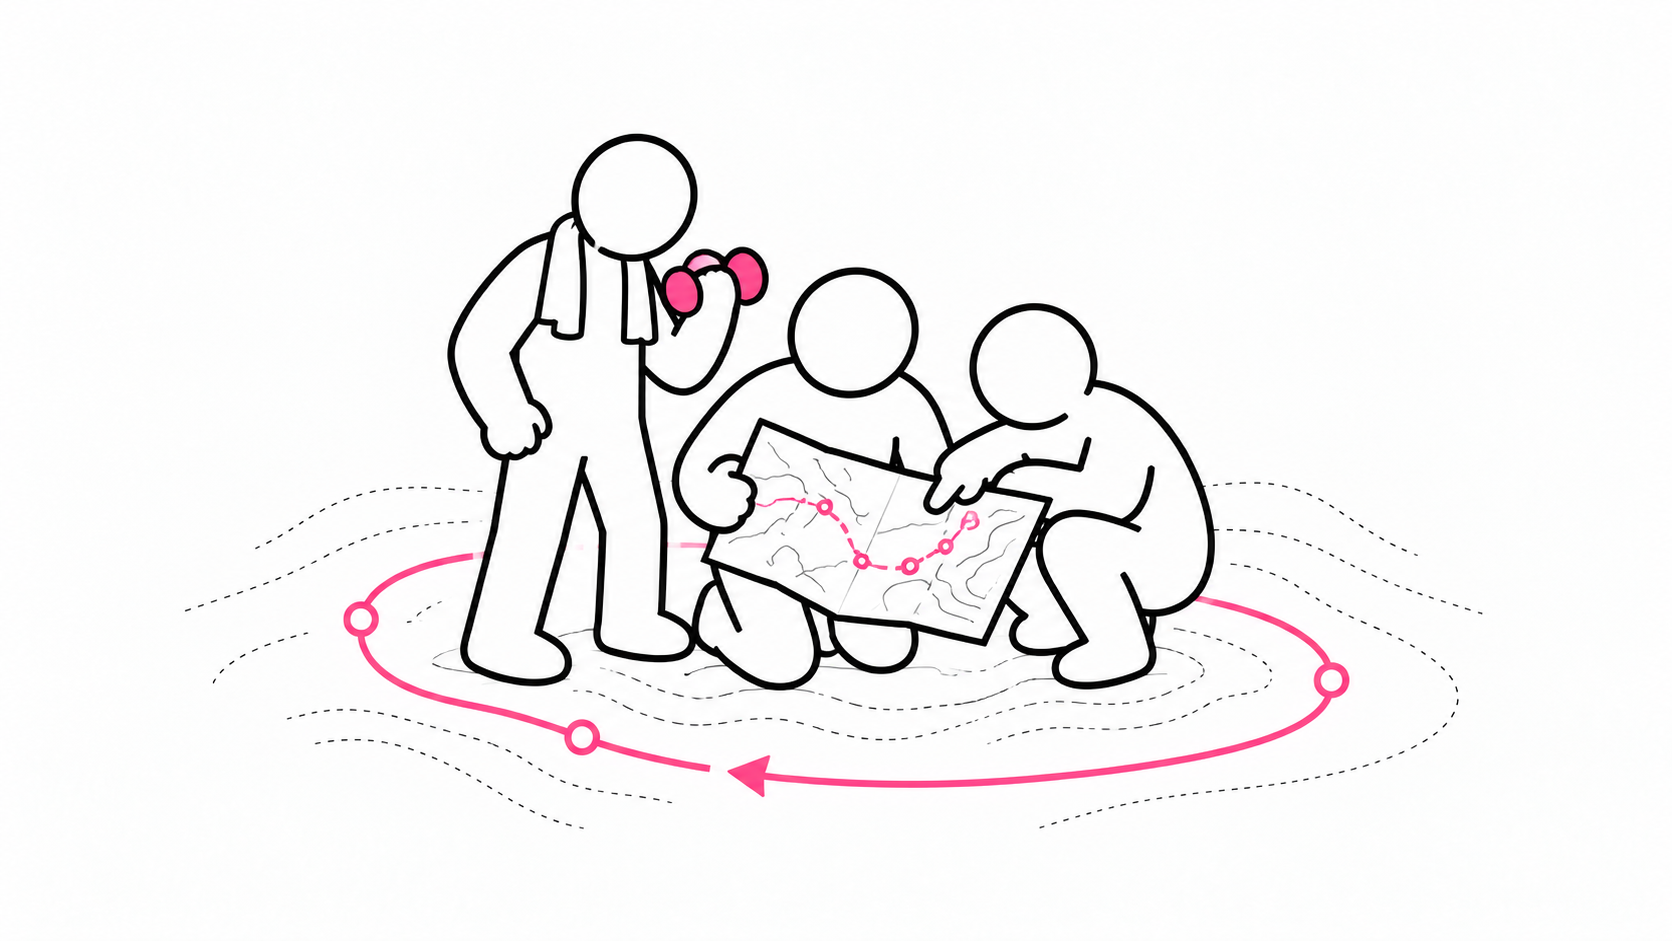
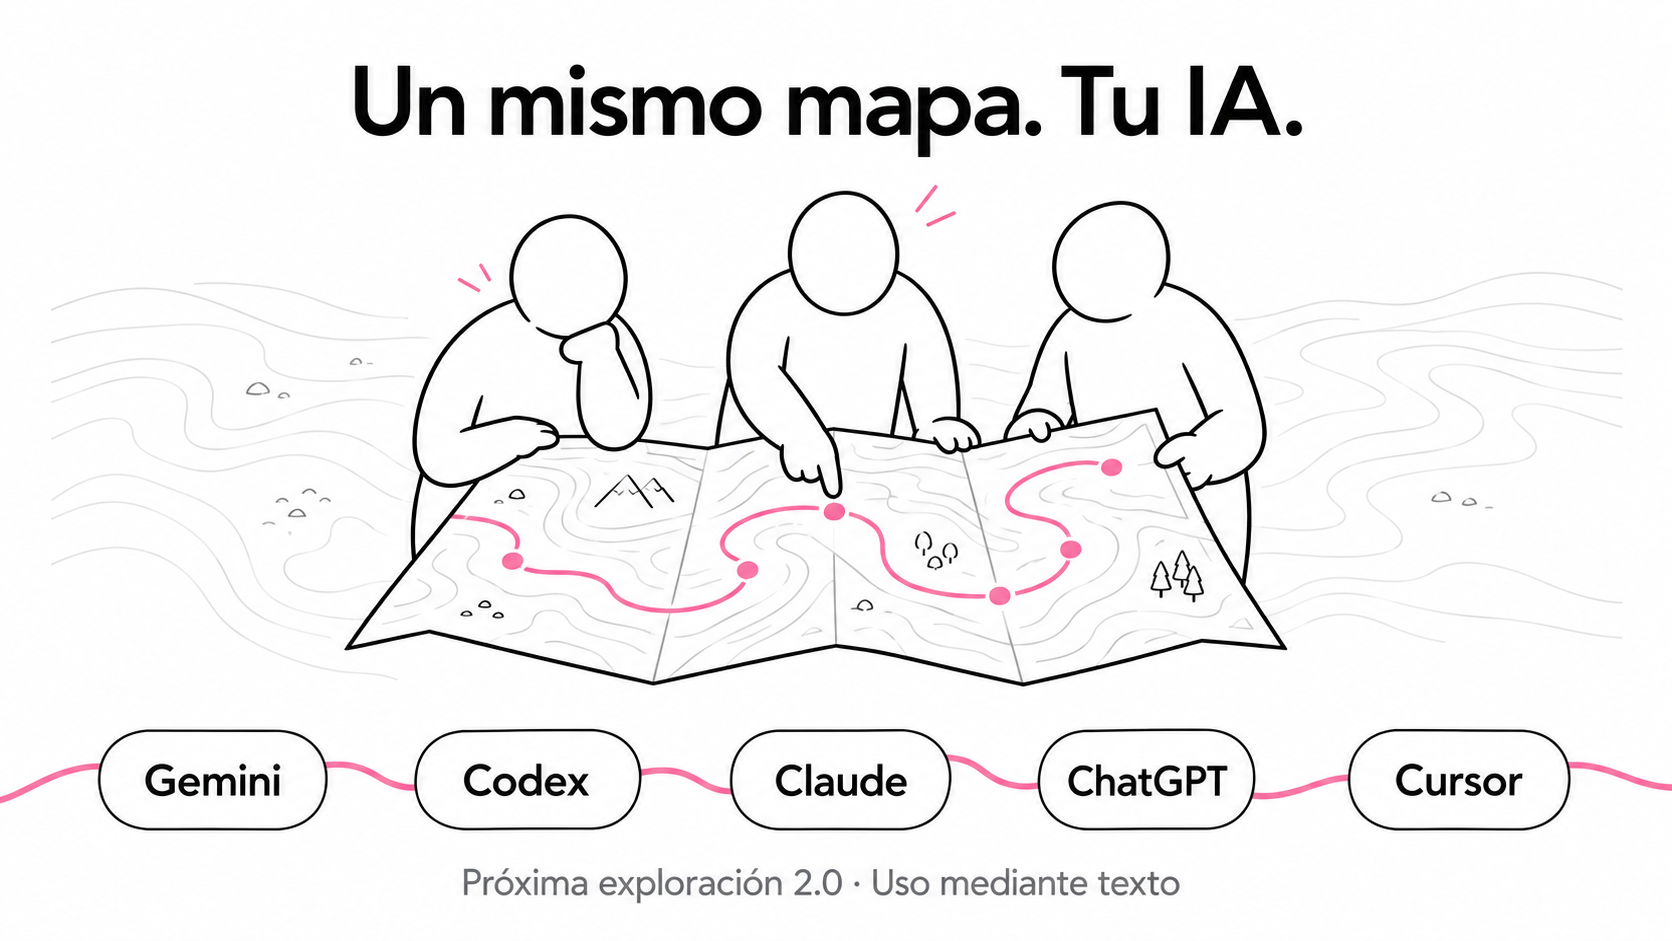
docs: sustituir portada por la ilustración de compatibilidad entre clientes

diff --git a/docs/assets/README.md b/docs/assets/README.md
@@ -1,5 +1,7 @@
 # Recursos visuales
 
-`portada.png` ilustra la cartografía, el aprendizaje compartido y la constancia: un grupo consulta un mapa mientras entrena.
+`portada.png` muestra a un grupo consultando un mapa y los nombres de Gemini, Codex, Claude, ChatGPT y Cursor unidos por un recorrido rosa.
+
+El lema «Un mismo mapa. Tu IA.» presenta la portabilidad de Próxima exploración 2.0. El rótulo «Uso mediante texto» identifica la vía común de compatibilidad; no implica una certificación o integración nativa idéntica en todos los clientes.
 
 Imagen generada con IA para **Cartografías de lo liminal · Raúl Marín · Shift+R**. Se muestra en el README principal.

diff --git a/README.md b/README.md
@@ -2,7 +2,7 @@
 
 ### Aprender juntos para cambiar cómo trabajamos.
 
-![Tres personas exploran un mapa y entrenan juntas, rodeadas por un recorrido rosa que vuelve sobre sí mismo.](docs/assets/portada.png)
+![Un mismo mapa. Tu IA. Tres personas consultan un mapa; Gemini, Codex, Claude, ChatGPT y Cursor aparecen conectados por un recorrido rosa. Próxima exploración 2.0, uso mediante texto.](docs/assets/portada.png)
 
 **Un recurso de _Cartografías de lo liminal_ · Raúl Marín · Shift+R**
 
